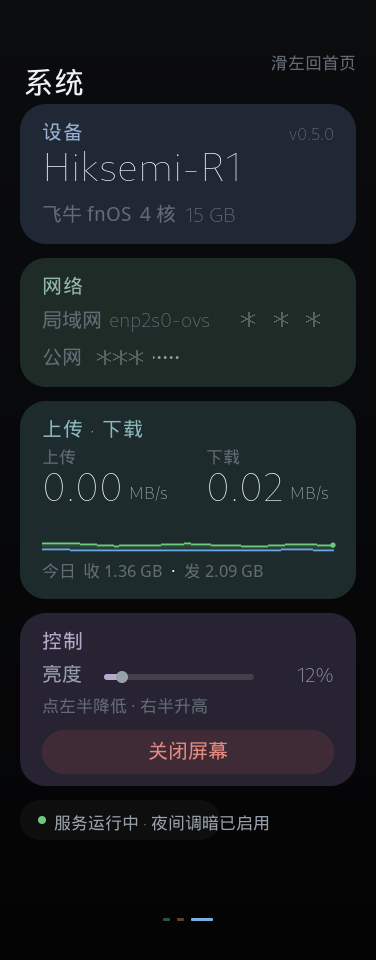
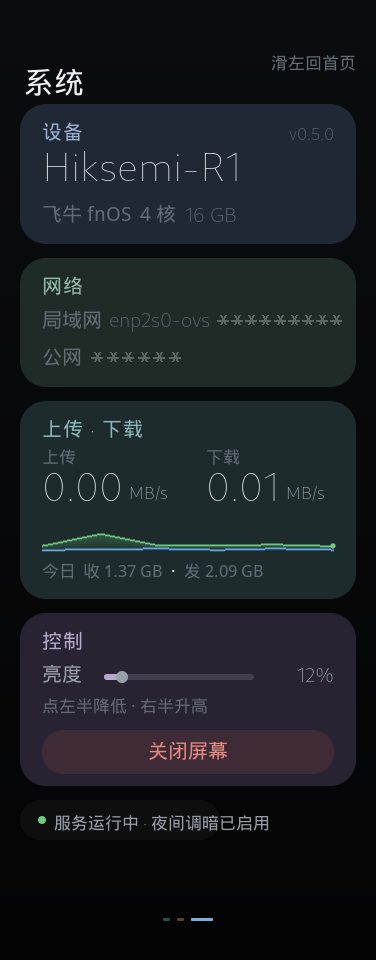
fix(monitor): 内存按物理/内核可见两级口径显示，16 GB 不再显示成 15 GB
- 新增 SMBIOS type 17 解析（/sys/firmware/dmi/entries/17-*/raw，免装 dmidecode）
  汇总物理安装容量；实测 N100 单条 16 GB DDR5-4800
- 系统页「设备」卡写物理容量（与商品页一致）
- 详情页「内存」卡写内核可见总量（15.4 GB，核显 stolen + 固件预留约 0.6 GiB），
  标题旁标注「物理 16 GB」；百分比仍以 MemTotal 为分母，三项保持自洽
- 总量格式 %.0f → %.1f，避免四舍五入造成“缩水”观感
- 截图按新数据重拍并重新脱敏（局域网/公网 IP 全遮蔽）

diff --git a/internal/monitor/system.go b/internal/monitor/system.go
@@ -1,6 +1,7 @@
 package monitor
 
 import (
+	"encoding/binary"
 	"encoding/json"
 	"fmt"
 	netLib "net"
@@ -8,6 +9,7 @@ import (
 	"path/filepath"
 	"strconv"
 	"strings"
+	"sync"
 	"time"
 
 	"github.com/shirou/gopsutil/v3/cpu"
@@ -23,6 +25,10 @@ import (
 //   - 局域网地址取默认路由接口的 IPv4，不取「第一个非回环地址」
 //     （那样可能取到 docker0 的 172.17.0.1）
 //   - 内存已用 = 总容量 - 可用，保证 已用 + 可用 == 总容量（三项自洽）
+//   - 内存总量有两个口径，必须分清：MemTotalGB 是内核可见（16 GB 机器只有
+//     15.4 GiB，核显 stolen + 固件预留吃掉了 0.6 GiB），MemPhysGB 才是商品页
+//     写的物理安装容量（读 SMBIOS type 17）。百分比只能拿 MemTotalGB 当分母，
+//     否则 43% 对不上 已用/总量。
 type SystemMonitor struct {
 	CPUPercent float64
 	CPUCores   []float64
@@ -32,7 +38,8 @@ type SystemMonitor struct {
 
 	MemPercent  float64
 	MemUsedGB   float64
-	MemTotalGB  float64
+	MemTotalGB  float64 // 内核可见总量（MemTotal，已扣除核显/固件预留）
+	MemPhysGB   float64 // 物理安装容量（SMBIOS type 17 汇总）；0 = 读不到
 	MemAvailGB  float64
 	MemHistory  []float64
 	MemCacheGB  float64 // buff/cache（Buffers + Cached）
@@ -199,6 +206,64 @@ func (s *SystemMonitor) getCPUTempFromFile() float64 {
 	return 0
 }
 
+// ------------------------------------------------------------
+//  物理安装内存（SMBIOS type 17）
+// ------------------------------------------------------------
+//
+// 为什么不能只看 /proc/meminfo：MemTotal 是「内核能用的内存」，核显 stolen
+// 显存与固件/ACPI 预留已经被扣掉。R1（16 GB DDR5）实测 MemTotal=15.4 GiB，
+// 差额 0.6 GiB 里 124 MB 是 Graphics Stolen、其余是固件预留 —— 不是缩水。
+//
+// /sys/firmware/dmi/entries/17-*/raw 是裸 SMBIOS 结构，不需要装 dmidecode。
+// 注意：SMBIOS 规范里的字段偏移是**从结构首字节算起**（type/len/handle 占
+// 0x00~0x03 也算在内），不是从 formatted area 算 —— 这点搞错会读到
+// 0x0201=513 MB 这种鬼数字（本机第一版就是踩了这个坑，界面显示「物理 1 GB」）：
+//   0x00  type(=17)   0x01  length   0x02~0x03  handle
+//   0x0C  Size uint16（MB；0=空插槽；0xFFFF=见扩展字段）
+//   0x1C  Extended Size uint32（MB）
+// 读不到（非 x86 / 权限不足 / SMBIOS 未导出）返回 0，界面自行降级，绝不编造。
+var (
+	physMemOnce sync.Once
+	physMemVal  float64
+)
+
+func physicalMemGB() float64 {
+	physMemOnce.Do(func() { physMemVal = readDMIPhysicalMemGB() })
+	return physMemVal
+}
+
+func readDMIPhysicalMemGB() float64 {
+	dirs, err := filepath.Glob("/sys/firmware/dmi/entries/17-*")
+	if err != nil {
+		return 0
+	}
+	var totalMB uint64
+	for _, dir := range dirs {
+		b, err := os.ReadFile(filepath.Join(dir, "raw"))
+		if err != nil || len(b) < 0x0E {
+			continue
+		}
+		size := binary.LittleEndian.Uint16(b[0x0C:])
+		var mb uint64
+		switch {
+		case size == 0x0000: // 该插槽没插内存
+			continue
+		case size == 0xFFFF: // 超出 32 GB 上限，走扩展字段
+			if len(b) < 0x20 {
+				continue
+			}
+			mb = uint64(binary.LittleEndian.Uint32(b[0x1C:]))
+		default:
+			mb = uint64(size)
+		}
+		totalMB += mb
+	}
+	if totalMB == 0 {
+		return 0
+	}
+	return float64(totalMB) / 1024
+}
+
 func (s *SystemMonitor) UpdateMemory() error {
 	v, err := mem.VirtualMemory()
 	if err != nil {
@@ -213,6 +278,7 @@ func (s *SystemMonitor) UpdateMemory() error {
 	}
 
 	s.MemTotalGB = total / (1024 * 1024 * 1024)
+	s.MemPhysGB = physicalMemGB()
 	s.MemAvailGB = avail / (1024 * 1024 * 1024)
 	s.MemUsedGB = used / (1024 * 1024 * 1024)
 	if total > 0 {

diff --git a/internal/ui/pages_m3.go b/internal/ui/pages_m3.go
@@ -97,9 +97,10 @@ const (
 )
 
 // m3Card 容器卡 + 标题（FzSmall + 1px 字距，基线 y+m3TitleBase）
-func m3Card(c *Canvas, fs *FontSet, x, y, w, h int, hue m3Hue, title string) {
+// 返回标题墨迹宽度，方便需要紧跟标题追加小字时不用再猜坐标。
+func m3Card(c *Canvas, fs *FontSet, x, y, w, h int, hue m3Hue, title string) int {
 	c.FillRoundRect(x, y, w, h, m3Rad, hue.bg)
-	drawTracked(c, fs, title, x+m3Pad, y+m3TitleBase, FzSmall, hue.hi, 1)
+	return drawTracked(c, fs, title, x+m3Pad, y+m3TitleBase, FzSmall, hue.hi, 1)
 }
 
 // m3Note 卡头右侧小注：**与标题同基线**右对齐（之前用中心锚，且比标题低 8px，
@@ -415,7 +416,13 @@ func (p *DetailPage) Draw(c *Canvas, d *DrawCtx) {
 
 	// ---------------- 内存（绝对量 + 缓存/Swap，紫卡）----------------
 	if c.ClipVisible(PadX, dtMemY, CardW, dtMemH) {
-		m3Card(c, fs, PadX, dtMemY, CardW, dtMemH, huePurple, "内存")
+		tw := m3Card(c, fs, PadX, dtMemY, CardW, dtMemH, huePurple, "内存")
+		// 标题后紧跟物理容量：16 GB 的机器内核只报 15.4 GiB（核显/固件预留），
+		// 两个数字都摆出来，才不会让人以为内存"缩水"了
+		if m.MemPhysGB > 0 {
+			DrawPartsL(c, fs, PadX+m3Pad+tw+10, dtMemY+m3TitleBase, FzTiny,
+				splitParts(fmt.Sprintf("物理 %.0f GB", m.MemPhysGB), th.Dim))
+		}
 		m3Note(c, fs, PadX+CardW-m3Pad, dtMemY+m3TitleBase, th,
 			fmt.Sprintf("%.0f%%", m.MemPercent))
 		// 大数字基线 +89（墨迹 [56,89]）；单位降两档并用 Gap 顶住，不留大空格
@@ -423,7 +430,7 @@ func (p *DetailPage) Draw(c *Canvas, d *DrawCtx) {
 			{S: fmt.Sprintf("%.1f", m.MemUsedGB), Col: th.Text, Latin: true},
 			{S: "GB", Col: th.Sub, Latin: true, Size: FzSmall, Gap: 4},
 			{S: "/", Col: th.Dim, Latin: true, Size: FzBody, Gap: 10},
-			{S: fmt.Sprintf("%.0f", m.MemTotalGB), Col: th.Sub, Latin: true, Gap: 10},
+			{S: fmt.Sprintf("%.1f", m.MemTotalGB), Col: th.Sub, Latin: true, Gap: 10},
 			{S: "GB", Col: th.Dim, Latin: true, Size: FzSmall, Gap: 4},
 		})
 		// bar 顶 +101（数字墨迹底 +89 之下 12），底 +107
@@ -577,10 +584,17 @@ func (p *SysPage) Draw(c *Canvas, d *DrawCtx) {
 		DrawPartsL(c, fs, PadX+m3Pad, syDevY+85, FzLarge,
 			splitParts(trim(d.Host, 14), th.Text))
 		// 副标题墨迹顶 +105（主机名墨迹底 +85 之下 20）→ 基线 +122，卡底 +140 → 18
+		//
+		// 这里是**规格卡**，内存写物理安装容量（SMBIOS），和商品页 16 GB 一致；
+		// 运行态「已用 / 内核可见总量」放在详情页内存卡（15.4 GB），两边不混。
+		memTxt := fmt.Sprintf("%.1f GB", m.MemTotalGB)
+		if m.MemPhysGB > 0 {
+			memTxt = fmt.Sprintf("%.0f GB", m.MemPhysGB)
+		}
 		DrawPartsL(c, fs, PadX+m3Pad, syDevY+122, FzSmall, []TPart{
 			{S: "飞牛 fnOS", Col: th.Dim},
 			{S: fmt.Sprintf("%d 核", coreCount(m)), Col: th.Dim, Gap: 9},
-			{S: fmt.Sprintf("%.0f GB", m.MemTotalGB), Col: th.Dim, Latin: true, Gap: 9},
+			{S: memTxt, Col: th.Dim, Latin: true, Gap: 9},
 		})
 	}
 

diff --git a/CHANGELOG.md b/CHANGELOG.md
@@ -6,6 +6,23 @@
 
 基于上游 [lemon6515/r1-toolbox-go](https://github.com/lemon6515/r1-toolbox-go) 增强 fork。
 
+## [v0.5.0] - 2026-10-28
+
+### 变更
+
+- **色板改为低饱和** tonal 容器:卡面 bg 饱和 16~23%、强调色 13~20%,彩色靠明度差分层而不是靠饱和(前一版 42~55% 在近黑背景上像荧光漆,颜色抢过数据本身)
+- **排版系统重写**:全页统一**基线锚**(弃用位图顶锚,它是文字压条/压标题的根源)、卡内左右留白固定 22px、标题基线固定在卡顶 +40 并加 1px 字距(`drawTracked`)、数字与单位之间用定值 `TPart.Gap` 分隔(取代空格——空格宽度随字号线性放大,疏密完全不受控)
+- 大时钟 96 → 112px,卡片圆角 14 → 26,卡内数字按卡片实宽收敛(小卡 36px、大卡 40px)
+- **内存改为两级口径**,都能和现实对上:
+  - 系统页「设备」卡写**物理安装容量** —— 读 SMBIOS type 17(N100 实测单条 16 GB DDR5-4800),与商品页一致
+  - 详情页「内存」卡写**内核可见总量** 15.4 GB,并在标题旁标注「物理 16 GB」;百分比仍以内核可见总量为分母,保证 已用 + 可用 == 总量、百分比与两者自洽
+
+### 修复
+
+- 16 GB 机器被显示成「15 GB」引起的"内存缩水"误解:原先只读 `/proc/meminfo` 的 MemTotal(核显 stolen 124 MB + 固件预留共约 0.6 GiB 已被扣掉),又用 `%.0f` 四舍五入
+- 内存容量解析的第一版把 SMBIOS 字段偏移当成了"从 formatted area 起算",读出 513 MB(界面显示「物理 1 GB」);SMBIOS 偏移是从结构首字节算起的,已修正
+- 卡内文字与进度条互相穿插、标题与内容基线不齐
+
 ## [v0.4.0] - 2026-10-28
 
 ### 变更
